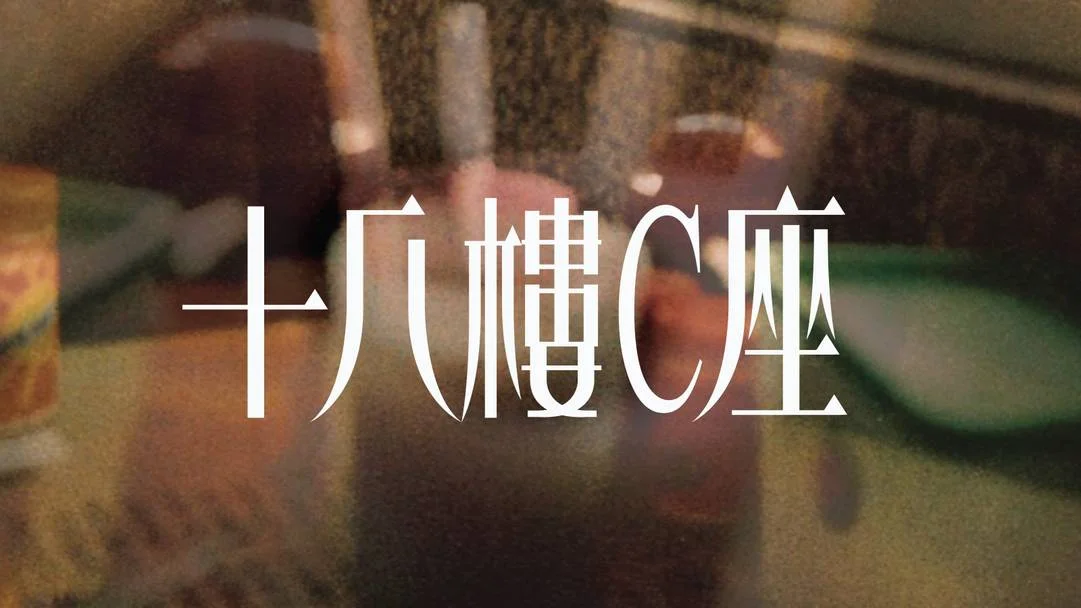
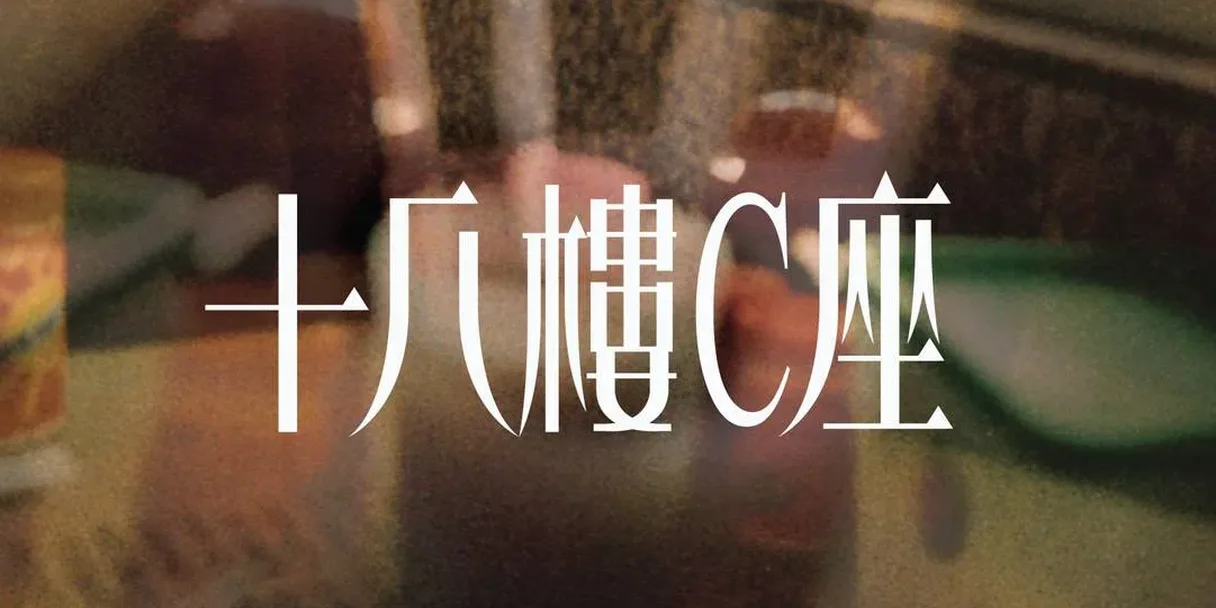
feat(show): split each show image into a 16:9 tile and a square disc
Shows now follow the drama structure: show.json `art` is replaced by
`tile` (home grid, 16:9) and `disc` (record, mini player, 今日節目).

- schema: `tile` + `disc` required; registry: ShowConfig.tileArt, and
  theme.art is now the disc; HomePage show tiles use tileArt
- tile.webp 1216x684 from the old art.jpg (jpg dropped)
- disc.webp 600x600: CD covers supplied for 聖艾粒LaLaLaLa, Bad Girl大過佬,
  在晴朗的一天出發 and 口水多過浪花; 雲妮鍾情 takes the centre square;
  公子會 and 西加航空 keep the centre square until their CD covers arrive
- drama home tiles for 芝See / 黃金少年 / 18 樓 C 座 resized to 2:1
  1216x608 (same centre crop the shelf CSS already applied)
- showImages.node.test.ts and arcTiles.node.test.ts pin the sizes from
  the WebP headers; design previews point at tile.webp

Bump 1.14.1 -> 1.15.0.

Claude-Session: https://claude.ai/code/session_01NegVT1E6bKciWZ9NNvzRcz

diff --git a/src/shows/showImages.node.test.ts b/src/shows/showImages.node.test.ts
@@ -1,0 +1,40 @@
+// @vitest-environment node
+// 要用 node:fs 讀圖檔頭：*.node.test.ts 行 tsconfig.node.json（有 Node 型別）
+import { readdirSync, readFileSync, statSync } from 'node:fs';
+
+/*
+ * 節目圖統一尺寸：主頁 tile 16:9（同短篇長方形圖一樣）、碟面正方形（同廣播劇碟面一樣）；對住 WebP 檔頭鎖住。
+ * 唔 import ./index（.webp import 喺 node 環境冇 Vite 處理），直接讀 show.json
+ */
+const SHOWS = new URL('./', import.meta.url);
+const TILE_SIZE: [number, number] = [1216, 684];
+const DISC_SIZE: [number, number] = [600, 600];
+
+/** WebP 檔頭讀闊高：VP8（有損）同 VP8X（擴展）兩種 */
+const webpSize = (file: URL): [number, number] => {
+    const data = readFileSync(file);
+    const chunk = data.toString('ascii', 12, 16);
+    if (chunk === 'VP8X') return [data.readUIntLE(24, 3) + 1, data.readUIntLE(27, 3) + 1];
+    if (chunk === 'VP8 ') return [data.readUInt16LE(26) & 0x3fff, data.readUInt16LE(28) & 0x3fff];
+    throw new Error(`未支援嘅 WebP chunk：${chunk}`);
+};
+
+const showIds = readdirSync(SHOWS).filter((name) => statSync(new URL(name, SHOWS)).isDirectory());
+
+const imagesOf = (id: string) =>
+    JSON.parse(readFileSync(new URL(`${id}/show.json`, SHOWS), 'utf8')) as {
+        tile: string;
+        disc: string;
+    };
+
+describe('show image sizes', () => {
+    it('finds all seven shows', () => {
+        expect(showIds).toHaveLength(7);
+    });
+
+    it.each(showIds)('sizes the %s tile at 1216×684 and its disc at 600×600', (id) => {
+        const { tile, disc } = imagesOf(id);
+        expect(webpSize(new URL(`${id}/${tile}`, SHOWS))).toEqual(TILE_SIZE);
+        expect(webpSize(new URL(`${id}/${disc}`, SHOWS))).toEqual(DISC_SIZE);
+    });
+});

diff --git a/src/dramas/arcTiles.node.test.ts b/src/dramas/arcTiles.node.test.ts
@@ -1,6 +1,6 @@
 // @vitest-environment node
 // 要用 node:fs 讀圖檔頭：*.node.test.ts 行 tsconfig.node.json（有 Node 型別）
-import { readFileSync } from 'node:fs';
+import { readdirSync, readFileSync, statSync } from 'node:fs';
 
 /*
  * 短篇長方形圖（drama.json arcs[].tile）全部統一 16:9，同劇集 tile 一樣闊；對住 WebP 檔頭鎖住。
@@ -8,6 +8,8 @@ import { readFileSync } from 'node:fs';
  */
 const DRAMAS = new URL('./', import.meta.url);
 const ARC_TILE_SIZE: [number, number] = [1216, 684];
+/** 主頁廣播劇卡（--drama-tile-aspect 2:1） */
+const DRAMA_TILE_SIZE: [number, number] = [1216, 608];
 /** R2 每個短篇都有 cover photo 嘅劇（芝See 冇） */
 const WITH_ARC_COVERS = ['golden', 'sammy-kitty', 'jim', 'lancy'];
 
@@ -34,5 +36,18 @@ describe('arc tile sizes', () => {
         tiles.forEach((tile) =>
             expect(webpSize(new URL(`${id}/${tile}`, DRAMAS))).toEqual(ARC_TILE_SIZE),
         );
+    });
+});
+
+const dramaIds = readdirSync(DRAMAS).filter((name) =>
+    statSync(new URL(name, DRAMAS)).isDirectory(),
+);
+
+describe('drama tile sizes', () => {
+    it.each(dramaIds)('sizes the %s home tile at 1216×608', (id) => {
+        const { tile } = JSON.parse(readFileSync(new URL(`${id}/drama.json`, DRAMAS), 'utf8')) as {
+            tile: string;
+        };
+        expect(webpSize(new URL(`${id}/${tile}`, DRAMAS))).toEqual(DRAMA_TILE_SIZE);
     });
 });

diff --git a/src/shows/schema.test.ts b/src/shows/schema.test.ts
@@ -18,18 +18,19 @@ const SHOW = {
     fileTime: '1009',
     airDays: [1, 2, 3, 4, 5],
     order: 1,
-    art: 'art.jpg',
+    tile: 'tile.webp',
+    disc: 'disc.webp',
     theme: THEME,
 };
 
 const ctx = (id = 'badgirl') => ({
     id,
     source: `src/shows/${id}/show.json`,
-    files: new Set(['art.jpg']),
+    files: new Set(['tile.webp', 'disc.webp']),
 });
 
 describe('parseShowDefinition', () => {
-    it('reads a show with its schedule, art and dark theme', () => {
+    it('reads a show with its schedule, tile, disc and dark theme', () => {
         expect(parseShowDefinition(SHOW, ctx())).toEqual(SHOW);
     });
 
@@ -55,7 +56,8 @@ describe('parseShowDefinition', () => {
         ['a fractional weekday', { ...SHOW, airDays: [1.5] }, /airDays\[0\] must be a weekday 0–6/],
         ['a repeated weekday', { ...SHOW, airDays: [6, 6] }, /airDays\[1\]: duplicate weekday 6/],
         ['a non-integer order', { ...SHOW, order: '1' }, /order must be an integer/],
-        ['art missing from the folder', { ...SHOW, art: 'cover.jpg' }, /art: no file cover\.jpg/],
+        ['a tile missing from the folder', { ...SHOW, tile: 'x.webp' }, /tile: no file x\.webp/],
+        ['a disc missing from the folder', { ...SHOW, disc: 'x.webp' }, /disc: no file x\.webp/],
         [
             'a bad colour',
             { ...SHOW, theme: { ...THEME, accent: 'orange' } },

diff --git a/src/shows/registry.test.ts b/src/shows/registry.test.ts
@@ -23,11 +23,12 @@ const folder = (id: string, patch: Record<string, unknown> = {}): Folder => ({
         name: id.toUpperCase(),
         fileTime: '0900',
         airDays: [1, 2, 3, 4, 5],
-        art: 'art.jpg',
+        tile: 'tile.webp',
+        disc: 'disc.webp',
         theme: THEME,
         ...patch,
     },
-    images: { 'art.jpg': `/img/${id}.jpg` },
+    images: { 'tile.webp': `/img/${id}-tile.webp`, 'disc.webp': `/img/${id}-disc.webp` },
 });
 
 const sourceOf = (...folders: Folder[]): FolderSource => ({ folders: () => folders });
@@ -46,13 +47,14 @@ describe('buildShowRegistry', () => {
         expect(registry.shows.map((s) => s.id)).toEqual(['sat', 'alpha', 'beta', 'zeta']);
     });
 
-    it('builds the show config with its theme and art attached', () => {
+    it('builds the show config with its tile, and its theme with the disc attached', () => {
         expect(registry.findShow('sat')).toEqual({
             id: 'sat',
             name: 'SAT',
             fileTime: '2308',
             airDays: [6],
-            theme: { ...THEME, art: '/img/sat.jpg' },
+            tileArt: '/img/sat-tile.webp',
+            theme: { ...THEME, art: '/img/sat-disc.webp' },
         });
         expect(registry.findShow('nope')).toBeUndefined();
     });

diff --git a/design/previews/landscape-list-left-preview.html b/design/previews/landscape-list-left-preview.html
@@ -473,13 +473,13 @@ td code, p code { font-size: 12px; background: #0b0d0f; padding: 1px 5px; border
 <script>
 (() => {
     const IMG = {
-        badgirl: '../../src/shows/badgirl/art.jpg',
-        gongzi: '../../src/shows/gongzi/art.jpg',
-        wanni: '../../src/shows/wanni/art.jpg',
-        sunnyday: '../../src/shows/sunnyday/art.jpg',
-        westair: '../../src/shows/westair/art.jpg',
-        waves: '../../src/shows/waves/art.jpg',
-        lalala: '../../src/shows/lalala/art.jpg',
+        badgirl: '../../src/shows/badgirl/tile.webp',
+        gongzi: '../../src/shows/gongzi/tile.webp',
+        wanni: '../../src/shows/wanni/tile.webp',
+        sunnyday: '../../src/shows/sunnyday/tile.webp',
+        westair: '../../src/shows/westair/tile.webp',
+        waves: '../../src/shows/waves/tile.webp',
+        lalala: '../../src/shows/lalala/tile.webp',
         banner: '../banner.webp',
         bannerWide: '../banner-wide.webp',
         todayTile: '../today-tile.webp',

diff --git a/design/previews/landscape-preview.html b/design/previews/landscape-preview.html
@@ -437,13 +437,13 @@ td code, p code { font-size: 12px; background: #0b0d0f; padding: 1px 5px; border
 <script>
 (() => {
     const IMG = {
-        badgirl: '../../src/shows/badgirl/art.jpg',
-        gongzi: '../../src/shows/gongzi/art.jpg',
-        wanni: '../../src/shows/wanni/art.jpg',
-        sunnyday: '../../src/shows/sunnyday/art.jpg',
-        westair: '../../src/shows/westair/art.jpg',
-        waves: '../../src/shows/waves/art.jpg',
-        lalala: '../../src/shows/lalala/art.jpg',
+        badgirl: '../../src/shows/badgirl/tile.webp',
+        gongzi: '../../src/shows/gongzi/tile.webp',
+        wanni: '../../src/shows/wanni/tile.webp',
+        sunnyday: '../../src/shows/sunnyday/tile.webp',
+        westair: '../../src/shows/westair/tile.webp',
+        waves: '../../src/shows/waves/tile.webp',
+        lalala: '../../src/shows/lalala/tile.webp',
         banner: '../banner.webp',
         bannerWide: '../banner-wide.webp',
         todayTile: '../today-tile.webp',

diff --git a/src/pages/HomePage.test.tsx b/src/pages/HomePage.test.tsx
@@ -6,6 +6,7 @@ import { recording, renderWithProviders } from '../../tests/renderWithProviders'
 import { HOME_THEME } from '../config/showThemes';
 import { usePlayer } from '../player/usePlayer';
 import { seriesEpisodesOf } from '../dramas';
+import { findShow } from '../shows';
 import { saveProgress } from '../services/progressStore';
 import type { Recording } from '../types/recording';
 import type { Track } from '../types/track';
@@ -95,6 +96,13 @@ describe('HomePage', () => {
             '聖艾粒LaLaLaLa',
             '今日節目',
         ]);
+    });
+
+    it('shows each show by its 16:9 tile, not its disc', () => {
+        renderWithProviders(<HomePage />);
+
+        const tile = within(screen.getByRole('navigation')).getByRole('button', { name: '公子會' });
+        expect(tile.querySelector('img')?.getAttribute('src')).toBe(findShow('gongzi')?.tileArt);
     });
 
     it('marks shows with an unwatched episode today as 新', () => {

diff --git a/src/shows/schema.ts b/src/shows/schema.ts
@@ -27,8 +27,10 @@ export interface ShowDefinition {
     airDays: readonly Weekday[];
     /** 主頁次序；冇寫就排喺有寫嘅後面，按 id 排 */
     order?: number;
-    /** 節目圖（folder 內檔名） */
-    art: string;
+    /** 主頁節目格圖（folder 內檔名，16:9） */
+    tile: string;
+    /** 碟面圖（folder 內檔名，正方形）：唱片、mini player、今日節目 */
+    disc: string;
     theme: ThemeDefinition;
 }
 
@@ -64,7 +66,8 @@ export const parseShowDefinition = (value: unknown, ctx: ParseContext): ShowDefi
         fileTime: readFileTime(ctx, raw),
         airDays: readAirDays(ctx, raw),
         order: readOptionalInteger(ctx, raw, 'order'),
-        art: readImage(ctx, raw, 'art'),
+        tile: readImage(ctx, raw, 'tile'),
+        disc: readImage(ctx, raw, 'disc'),
         theme: readTheme(ctx, raw),
     };
 };

diff --git a/src/shows/registry.ts b/src/shows/registry.ts
@@ -17,8 +17,10 @@ export interface ShowConfig {
     fileTime: string;
     /** 逢星期幾播（0 = 星期日 … 6 = 星期六），唔播嘅日子唔使 probe */
     airDays: readonly Weekday[];
-    /** 節目色調 + 節目圖 */
+    /** 節目色調 + 碟面圖 */
     theme: ShowTheme;
+    /** 主頁節目格用嘅 16:9 圖 */
+    tileArt: string;
 }
 
 export interface ShowRegistry {
@@ -53,7 +55,8 @@ const toShow = (folder: Folder): { show: ShowConfig; order: number | undefined }
             name: def.name,
             fileTime: def.fileTime,
             airDays: def.airDays,
-            theme: { ...def.theme, art: requireImage(folder, def.art) },
+            theme: { ...def.theme, art: requireImage(folder, def.disc) },
+            tileArt: requireImage(folder, def.tile),
         },
         order: def.order,
     };

diff --git a/src/shows/shows.test.ts b/src/shows/shows.test.ts
@@ -41,6 +41,14 @@ describe('SHOWS', () => {
         });
         expect(new Set(SHOWS.map((s) => s.theme.art)).size).toBe(SHOWS.length);
     });
+
+    it('keeps a separate home tile from the disc for every show', () => {
+        SHOWS.forEach((show) => {
+            expect(show.tileArt).toBeTruthy();
+            expect(show.tileArt).not.toBe(show.theme.art);
+        });
+        expect(new Set(SHOWS.map((s) => s.tileArt)).size).toBe(SHOWS.length);
+    });
 });
 
 describe('findShow / themeFor', () => {

diff --git a/src/shows/index.ts b/src/shows/index.ts
@@ -1,6 +1,6 @@
 /**
  * 903 節目 public API。資料來自 src/shows/<id>/show.json（見 schema.ts）。
- * 加一個節目：新開 folder，放 show.json + art.jpg，唔使改 code
+ * 加一個節目：新開 folder，放 show.json + tile.webp（16:9）+ disc.webp（正方形），唔使改 code
  * （橫版主頁 grid 寫死 4×2 = 7 個節目 + 今日格，加減節目要一齊改 ShowGrid.module.css）。
  */
 import { bundledSource } from './bundledSource';

diff --git a/src/pages/HomePage.tsx b/src/pages/HomePage.tsx
@@ -43,7 +43,7 @@ const useHomeTiles = () => {
             <ShowTile
                 key={show.id}
                 label={show.name}
-                art={show.theme.art}
+                art={show.tileArt}
                 isNew={newShowIds.has(show.id)}
                 onClick={() => {
                     startShow(show.id);
